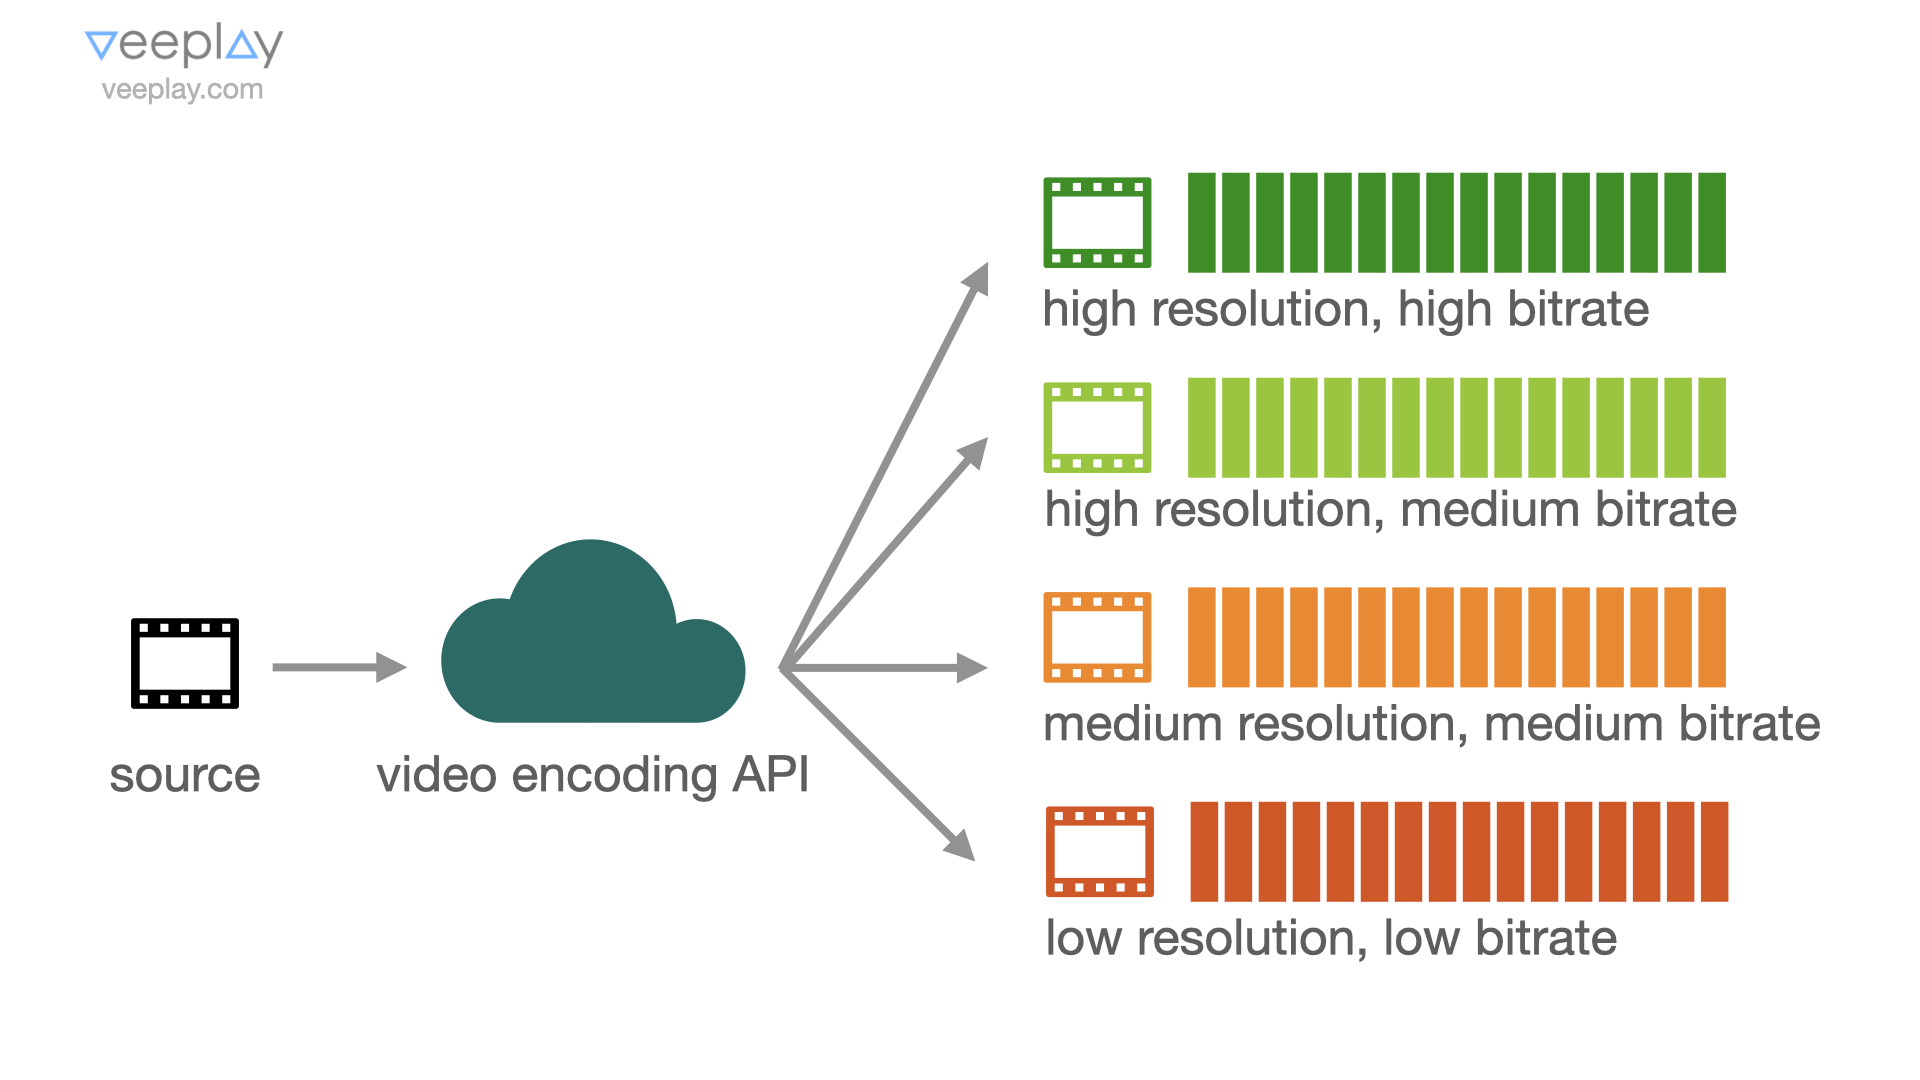
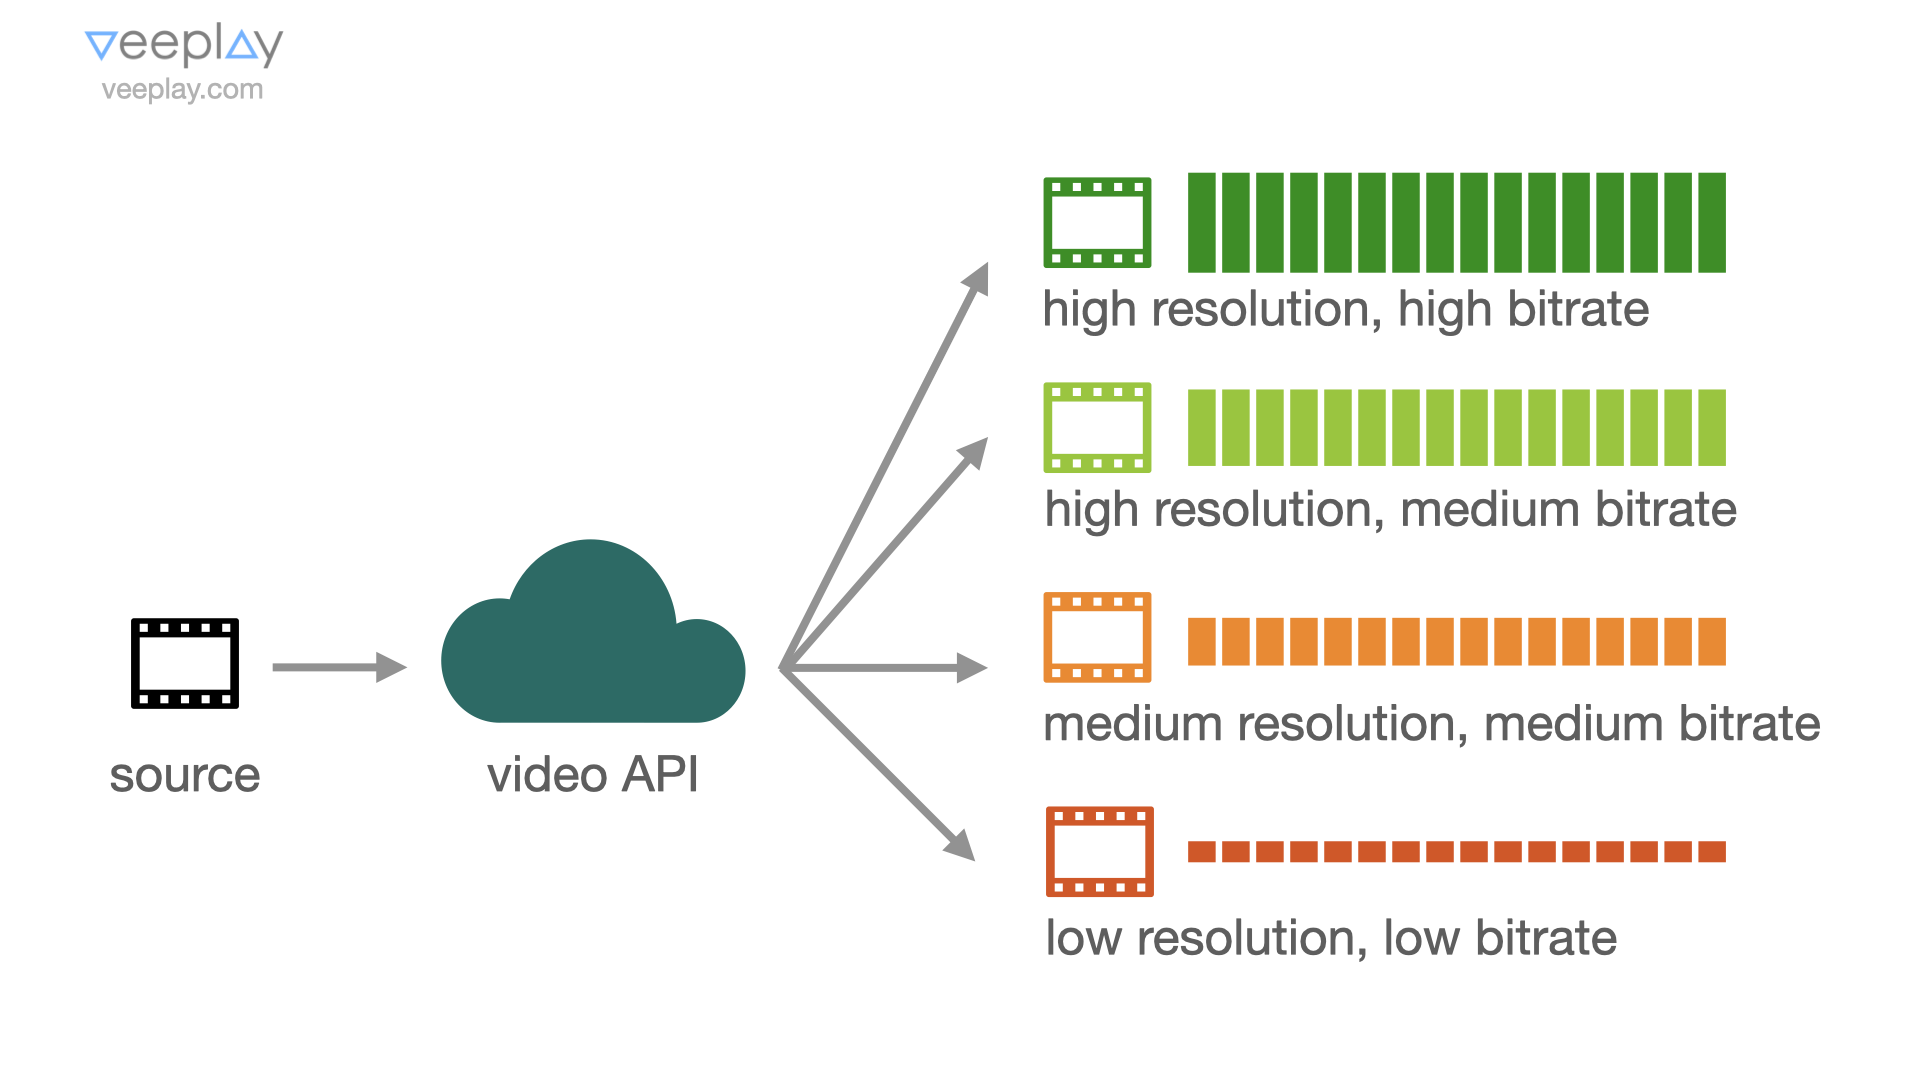
Update streaming guide

diff --git a/docs/video-guides/how-video-streaming-works.md b/docs/video-guides/how-video-streaming-works.md
@@ -32,21 +32,21 @@ Another issue with choosing the right quality vs. size for progressive download 
 
 ## Streaming
 
-The first step to fixing the problems with progressive downloads described above is to generate **multiple renderings of the original media**, different in resolution and quality. This is a process generally called encoding. Depending on the selected codec and configuration, a source file can be converted to a series of individual outputs of different qualities and sizes.
+The first step to fixing the problems with progressive downloads described above is to generate **multiple renderings of the original media**, with different bitrates. This is a process generally called encoding (or transcoding, since an already-encoded input is converted to one or more differently encoded outputs). Depending on the selected codec and configuration, a source file can be converted to a series of individual outputs of different qualities and sizes.
 
-Additionally, each rendering might be broken up into same-length pieces called **segments**. This will allow players to granularly buffer content relative to the current playhead, rather than downloading an entire file blob. An alternative to segments is using HTTP range requests or a similar mechanism, depending on player and server feature availability.
+Each rendering might be broken up into same-length pieces called **segments** or **fragments**. This increases efficiency, as it allows players to granularly buffer content relative to the current playhead, rather than downloading an entire file blob. An alternative to segmentation is using [HTTP range requests](https://developer.mozilla.org/en-US/docs/Web/HTTP/Range_requests) or a similar mechanism, depending on player and server feature availability. This allows a specific range of a file to be requested and downloaded, making it feasible to have a single, solid file output - however, the file must be encoded in such a way that each individual range allows for standalone rendering.
 
 Video processing workflows can be implemented using many different products and solutions, but the easiest way to get started is to make use of a web service for video transcoding and management, like the [Veeplay Video API](https://veeplay.com/video-api-cloud/).
 
 ![Transcoding a video to multiple qualities](/img/video-guides/video-transcoding-multiple-quality.png)
 
-The resulting rendering segments are then all uploaded to storage, cached on a CDN, and made available to players. A playlist index file is also generated, connecting each individual segment to a specific playback time interval and exposing metadata like information about bitrate and quality.
+The resulting rendering segments are then all uploaded to storage, cached on a CDN, and made available to players. A playlist index file is also generated, connecting each individual segment to a specific playback time interval and exposing metadata like information about bitrate and quality. Several protocols exist for managing the entire streaming process, the most popular being HLS and DASH.
 
 ## HTTP Streaming Protocols
 
-**HLS (HTTP Live Streaming)** and **DASH (Dynamic Adaptive Streaming over HTTP)** are the two main competing standards for implementing live streaming. [HLS](https://developer.apple.com/streaming/) was released by Apple in 2009 and is currently the market leader, while [DASH](https://dashif.org/) was published in 2012 and is promoted by the DASH Industry Forum (Microsoft, Netflix, Google, Ericsson, Samsung, Adobe, etc.)
+**[HLS (HTTP Live Streaming)](/docs/video-guides/video-streaming-formats-device-support#http-live-streaming-hls)** and **[DASH (Dynamic Adaptive Streaming over HTTP)](/docs/video-guides/video-streaming-formats-device-support#dynamic-adaptive-streaming-over-http-dash)** are the two main competing standards for implementing live streaming. [HLS](https://developer.apple.com/streaming/) was released by Apple in 2009 and is currently the market leader, while [DASH](https://dashif.org/) was published in 2012 and is promoted by the DASH Industry Forum (Microsoft, Netflix, Google, Ericsson, Samsung, Adobe, etc.)
 
-A master HLS m3u8 playlist that references multiple renderings might look like the example below. Notice the links to other playlist files for each individual render, connected to a specific bandwidth requirement and other metadata like resolution. Four video renditions are referenced, with varying resolutions and bandwidths, encoded with H.264 (AVC). One audio track is also referenced, as audio and video tracks are generally separated as part of the transcoding process.
+A master HLS m3u8 playlist that references multiple renderings might look like the example below. Notice the links to other playlist files for each individual render, connected to a specific bandwidth requirement and other metadata like resolution. Four video renditions are referenced, with varying resolutions and bandwidths, encoded with [H.264 (AVC)](/docs/video-guides/video-codec-types-device-support#h264-avc). One audio track is also referenced, as audio and video tracks are generally separated as part of the transcoding process.
 
 :::note
 Multiple audio tracks can be included, as well as subtitle tracks and other metadata.
@@ -90,7 +90,7 @@ A context-aware player can now download the playlist file, evaluate a series of 
 > Video streaming fixes the issues with progressive downloads.
 
 :::note
-We've simplified things for this representation. In real life, at least an audio track would also be included in the playlist and downloaded separately. Subtitle tracks or alternate audio might also be included - the player could then allow the user to choose to change the audio to another language or display any of the available subtitles.
+We've simplified things for this representation. In real life, at least an audio track would also be included in the playlist and downloaded separately. Subtitle tracks or alternate audio might also be included, enabling the user to change the audio to another language or display any of the available subtitles.
 :::
 
 ## Live Broadcast Streaming
@@ -102,6 +102,9 @@ In the case of live events, the streaming process looks very similar to what we 
 
 Stream latency can vary between 30+ seconds for baseline HLS or DASH implementations to around 5 seconds for tuned configurations of the same protocols.
 
-:::note
+## Low Latency Streaming
+
 An effort to implement low-latency streaming is underway for both [HLS](https://developer.apple.com/documentation/http_live_streaming/enabling_low-latency_hls) and [DASH](https://dashif.org/guidelines/) by splitting up the video segments into even smaller, independent pieces called chunks. These can be retrieved and rendered by the player as soon as they are available on the CDN, without needing to wait for a full segment to finish encoding. When supported by the CDN and players, this can reduce latency into the 1-5 seconds range.
-:::
+
+![How streaming latency works](/img/video-guides/how-streaming-latency-works.gif)
+![How low-latency streaming works](/img/video-guides/how-streaming-low-latency-works.gif)
